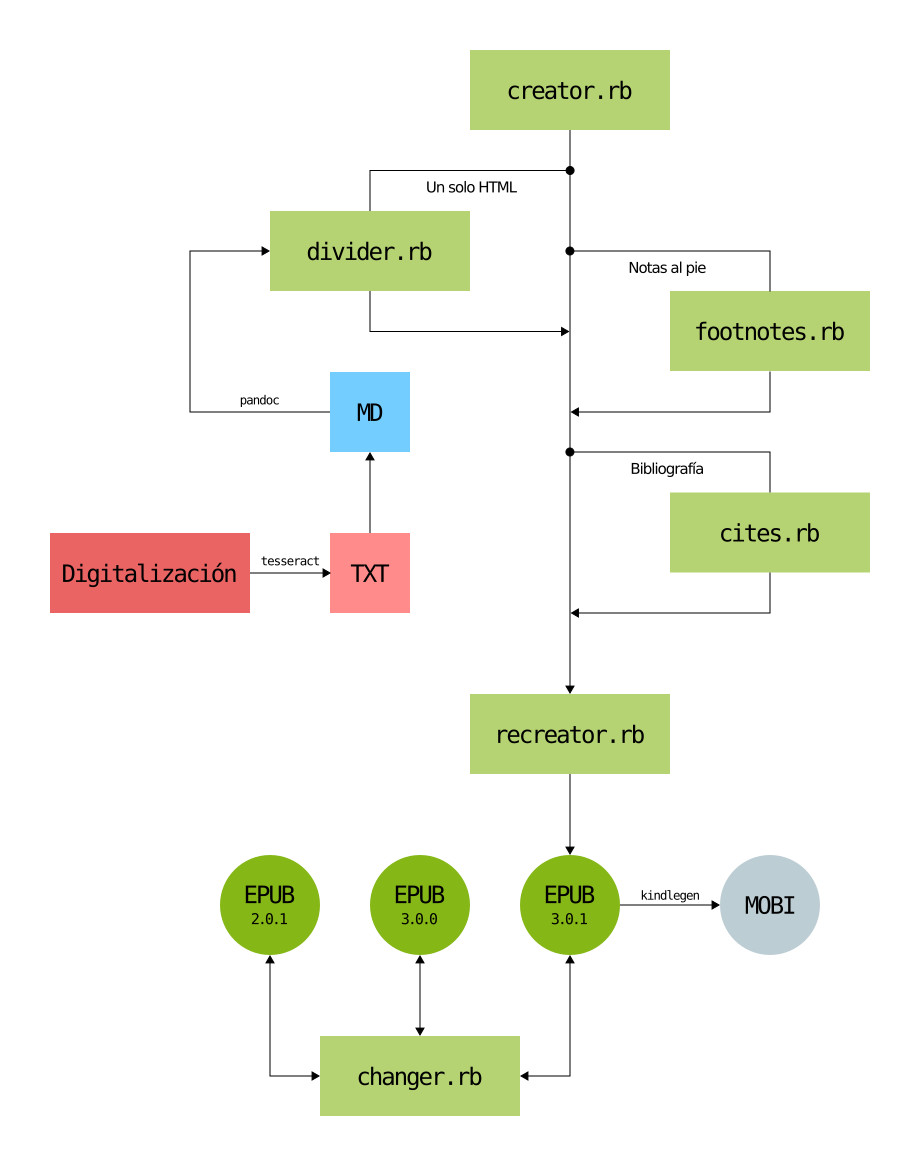
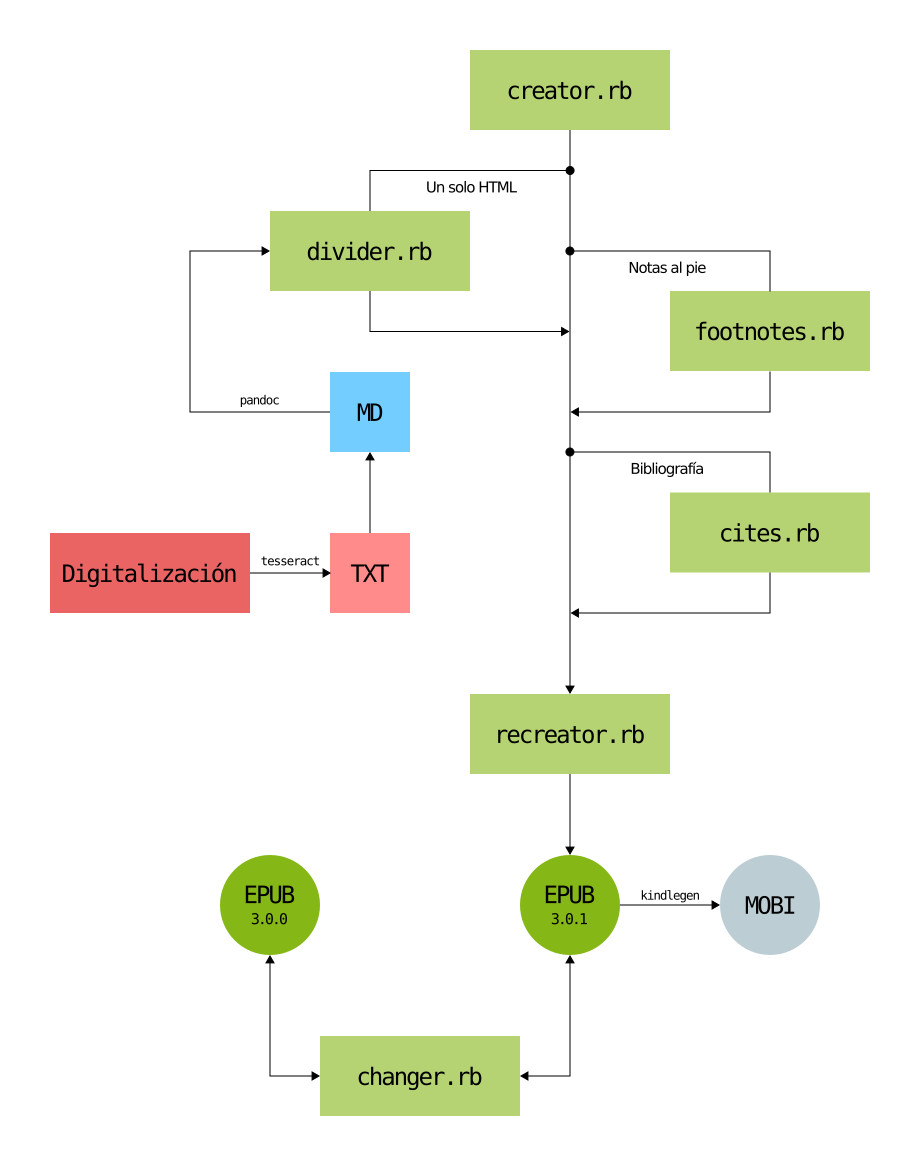
Fin del desarrollo de changer.rb

Changed region(s): [[0.3957, 0.7101, 0.5174, 0.8336]]

diff --git a/EPUB/6-Cambiador/changer.rb b/EPUB/6-Cambiador/changer.rb
@@ -85,8 +85,8 @@ elsif ARGF.argv.length == 2
         abort
     end
     # El segundo argumento tiene que ser la versión disponible
-    if ARGF.argv[1] != '2.0.1' and ARGF.argv[1] != '3.0.0' and ARGF.argv[1] != '3.0.1'
-        puts "\nLas versiones disponibles son: 2.0.1, 3.0.0 o 3.0.1.".red.bold
+    if ARGF.argv[1] != '3.0.0' and ARGF.argv[1] != '3.0.1'
+        puts "\nLas versiones disponibles son: 3.0.0 o 3.0.1.".red.bold
         abort
     end
 else
@@ -189,24 +189,15 @@ opf.each do |linea|
             $versionActual = version.to_s.split('"')[-1]
         end
 
-        # Especifica la versión actual
-        if $versionActual == '3.0'
-            if linea =~ /rendition/
-                $versionActual = '3.0.0'
-            else
-                $versionActual = '3.0.1'
-            end
+        if linea =~ /rendition/
+            $versionActual = '3.0.0'
         else
-            $versionActual = '2.0.1'
+            $versionActual = '3.0.1'
         end
 
         # Aborta si se intenta cambiar a la misma versión
         if $versionActual == $version
-            if $versionActual == '2.0.1'
-                puts "\nEste EPUB es versión 2, solo se puede actualizar a versión 3.0.0 o 3.0.1.".magenta.bold
-            else
-                puts "\nEste EPUB ya es versión #{$versionActual}.".magenta.bold
-            end
+            puts "\nEste EPUB ya es versión #{$versionActual}.".magenta.bold
             removerCarpeta
             abort
         end
@@ -215,47 +206,30 @@ opf.each do |linea|
     $opfContenido.push(linea)
 end
 
-puts "\nCambiando versión de #{$versionActual} a #{$version}.".magenta.bold
+puts "\nCambiando versión de #{$versionActual} a #{$version}...".magenta.bold
 
 # Cambia las versiones en el OPF
 $opfContenido.each do |linea|
-    if $versionActual != '2.0.1'
-        if $version != '2.0.1'
-            if linea =~ /<(\s*)package/
-                # Obtención del viejo prefijo
-                prefijo = linea.match(/prefix=[\"\']([^"]*)[\"\']/)
-                prefijo = prefijo[1].to_s
+    if linea =~ /<(\s*)package/
+        # Obtención del viejo prefijo
+        prefijo = linea.match(/prefix=[\"\']([^"]*)[\"\']/)
+        prefijo = prefijo[1].to_s
 
-                # Cambios según la versión actual
-                if $versionActual == '3.0.1'
-                    prefijo = 'rendition: http://www.idpf.org/vocab/rendition/# ' + prefijo
-                else
-                    prefijo = prefijo.gsub(/rendition:(.*)#/, '').strip
-                end
-
-                # Nuevo prefijo
-                nuevaLineaPrefijo = linea.to_s.gsub(/prefix=[\"\']([^"]*)[\"\']/, 'prefix="' + prefijo + '"')
-
-                # Localización en el conjunto de la linea donde está el prefijo
-                hashPrefijo = Hash[$opfContenido.map.with_index.to_a]
-
-                # Cambio de línea
-                $opfContenido[hashPrefijo[linea]] = nuevaLineaPrefijo
-            end
+        # Cambios según la versión actual
+        if $versionActual == '3.0.1'
+            prefijo = 'rendition: http://www.idpf.org/vocab/rendition/# ' + prefijo
         else
-            if linea =~ /<(\s*)package/
-                # Cambio en la linea
-                lineaPackage = linea.to_s.gsub(/prefix=[\"\']([^"]*)[\"\']/, '').gsub(/xml:lang=[\"\']([^"]*)[\"\']/, '').gsub(/version=[\"\']([^"]*)[\"\']/, 'version="2.0"')
-
-                # Localización en el conjunto de la linea donde está el prefijo
-                hashPackage = Hash[$opfContenido.map.with_index.to_a]
-
-                # Cambio de línea
-                $opfContenido[hashPackage[linea]] = lineaPackage
-            end
+            prefijo = prefijo.gsub(/rendition:(.*?)#/, '').strip
         end
-    else
-        puts "Cambio de 2.0.1 a 3"
+
+        # Nuevo prefijo
+        nuevaLineaPrefijo = linea.to_s.gsub(/prefix=[\"\']([^"]*)[\"\']/, 'prefix="' + prefijo + '"')
+
+        # Localización en el conjunto de la linea donde está el prefijo
+        hashPrefijo = Hash[$opfContenido.map.with_index.to_a]
+
+        # Cambio de línea
+        $opfContenido[hashPrefijo[linea]] = nuevaLineaPrefijo
     end
 end
 

diff --git a/EPUB/6-Cambiador/README.md b/EPUB/6-Cambiador/README.md
@@ -3,24 +3,51 @@
 ## Índice
 
 * [Descripción](#descripción)
+* [Dependencias](#dependencias)
 * [Uso](#uso)
-
-<!-- * [Explicación](#explicación) -->
+* [Explicación](#explicación)
 
 ## Descripción
 
-Este *script* cambia versiones de EPUB entre `2.0.1`, `3.0.0` y `3.0.1`.
+Este *script* cambia versiones de EPUB entre `3.0.0` y `3.0.1`.
+
+## Dependencias
+
+Este *script* requiere, además de Ruby:
+
+* Zip 3.0. La mayoría de las distribuciones Linux y Mac OSX ya lo tienen
+preinstalado. Para Windows es necesario descargar el `zip.exe` en Info-ZIP
+desde ftp://ftp.info-zip.org/pub/infozip/win32/. Para Windows de 64 bits es el
+archivo `zip300xn-x64.zip` y para 32 bits, `zip300xn.zip`.
+
+* UnZip 6.0. La mayoría de las distribuciones Linux y Mac OSX ya lo tienen
+preinstalado. Para Windows es necesario descargar el `unz600xn.exe` en Info-ZIP
+desde ftp://ftp.info-zip.org/pub/infozip/win32/.
 
 ## Uso
 
 **En desarrollo.**
 
-<!-- ###### 1. Desde el *shell* ejecutar el *script* cuyo único parámetro sea la ruta a la carpeta del EPUB.
+###### 1. Desde el *shell* ejecutar el *script* cuyos parámetros sean la ruta al EPUB y la versión deseada.
 
-Para mayor comodidad en el *shell* arrastra el archivo `recreator.rb` y después
+Para mayor comodidad en el *shell* arrastra el archivo `changer.rb` y después
 haz lo mismo con la carpeta del EPUB.
 
     Para usuarios de Windows, una vez instalado Ruby han de buscar el programa
-    «Start Command Prompt with Ruby» para poder ejecutar esta orden. -->
+    «Start Command Prompt with Ruby» para poder ejecutar esta orden.
 
-<!-- ## Explicación -->
+###### 2. ¡Listo!
+
+Se creará un nuevo EPUB con el mismo nombre y con la coletilla de la nueva
+versión en la misma carpeta del EPUB original.
+
+    Para usuarios de Windows, el proceso también requiere contar con unzip.exe
+    y zip.exe que en su momento les pedirá arrastrar.
+
+    OJO: al parecer exite un problema con unzip.exe en Windows.
+
+## Explicación
+
+Los EPUB versión 3.0.0 contienen el atributo `rendition` que ya no es necesario
+para las versiones 3.0.1. Este *script* simplemente elimina o agrega este
+atributo según las necesidades.

diff --git a/README.md b/README.md
@@ -51,7 +51,7 @@ Solo es necesario escribir el nombre del binario para llamar al script:
 * `recreator.rb`.
   * Tabla de contenidos jerarquizado.
 * `changer.rb`.
-  * Terminar el desarrollo.
+  * Corrección del error en la descompresión en Windows.
 * `index.rb`.
   * Añadir este séptimo `script` para la creación de índices analíticos.
 

diff --git a/EPUB/README.md b/EPUB/README.md
@@ -31,4 +31,4 @@ EPUB.
 NAV así como crea o recrea el archivo EPUB.
 
 6. `changer.rb`. Cambia versiones de EPUB entre
-`2.0.1`, `3.0.0` y `3.0.1`.
+`3.0.0` y `3.0.1`.
